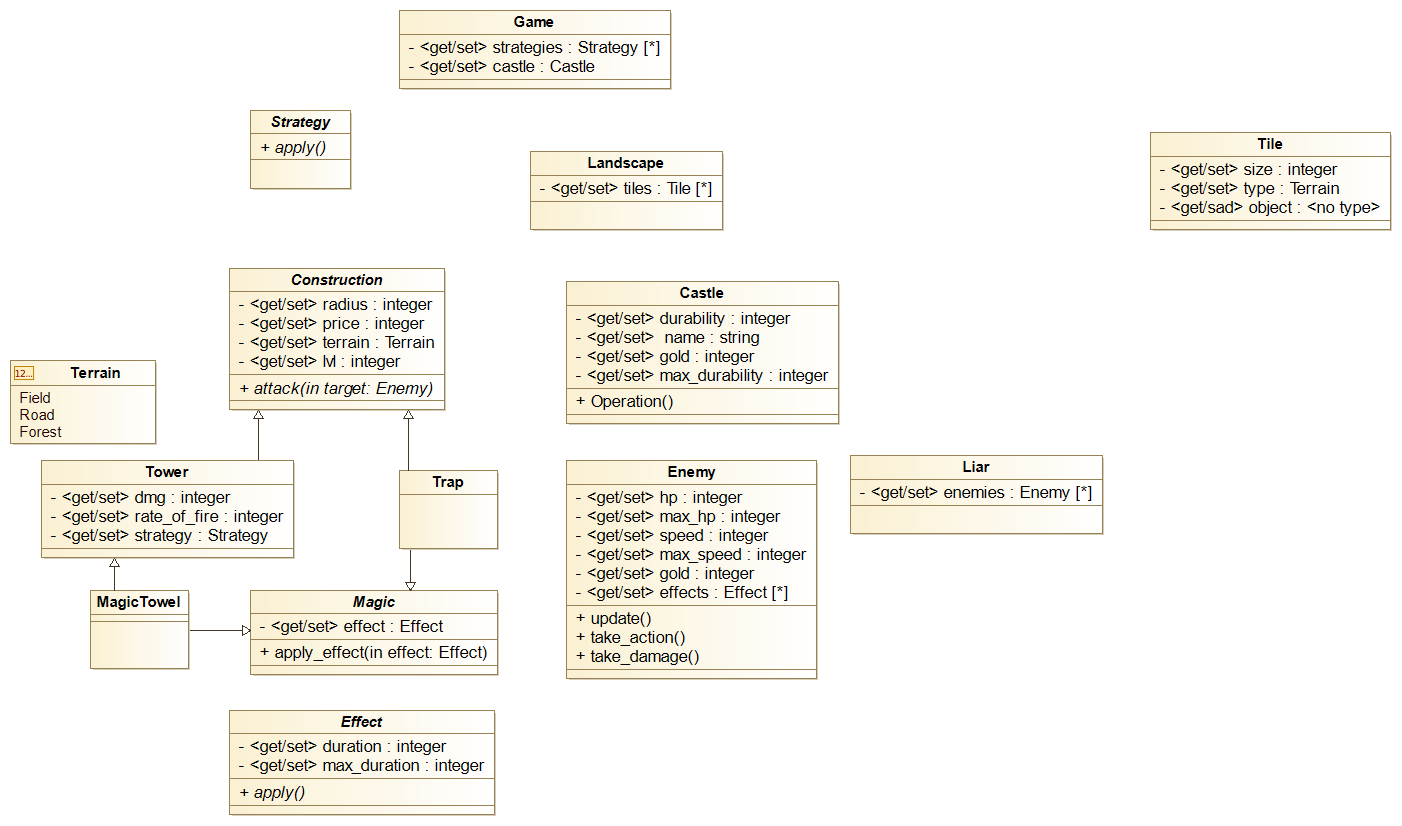
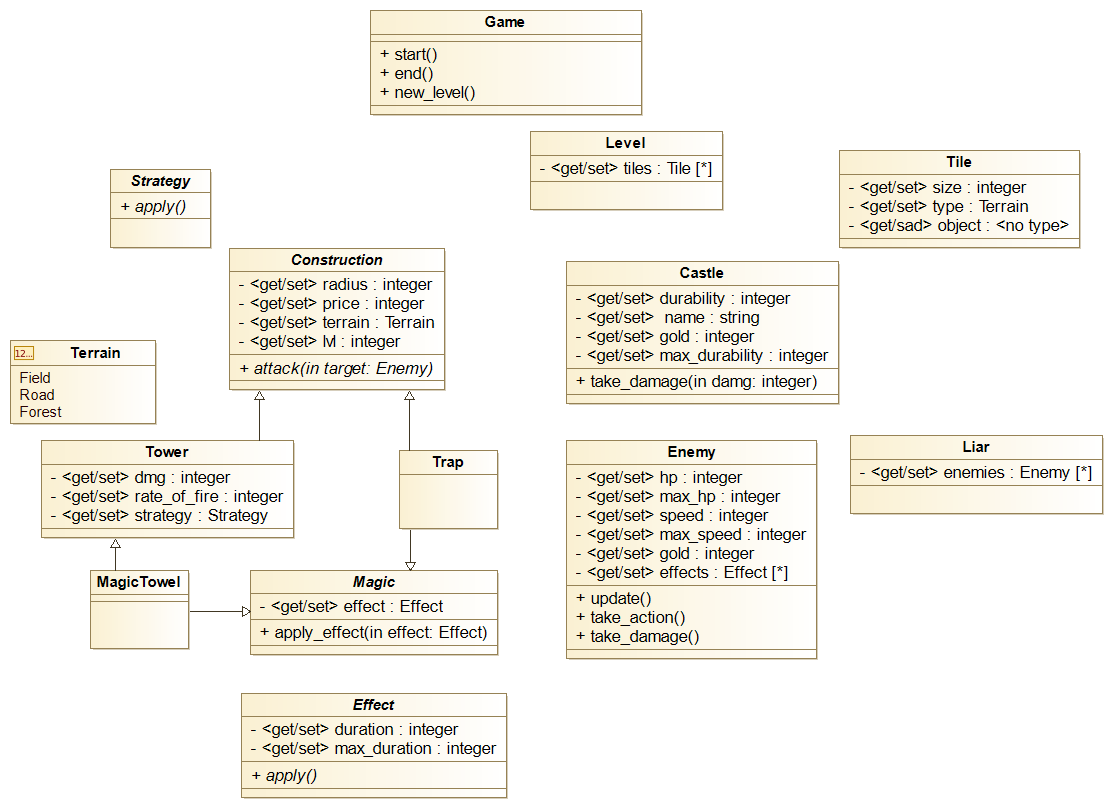
4 final version before performance

diff --git a/4/Enemy.h b/4/Enemy.h
@@ -4,30 +4,30 @@ using std::vector;
 
 namespace TowerDefence
 {
-	enum class EnemyState
+	enum EnemyState
 	{
-		Alive,
-		Dead
+		Dead,
+		Alive
 	};
 	class Enemy
 	{
 	private:
-		int name;//or string?
+	//	int name; or map
 		int HP;
 		int max_HP;
 		int speed;
 		int gold;
-	
+		TERRAIN type;
 		EnemyState state; 
 		vector<Effect*> acting_effects;
 	public:
-		 int get_name() const { return name; }
+		// int get_name() const { return name; }
 		 int get_HP() const { return HP; }
 		 int get_max_HP() const { return max_HP; }
 		 int get_speed() const { return speed; }
 		 int get_gold()const { return gold; }
 
-		 void set_name(int n) { name = n; }
+		// void set_name(int n) { name = n; }
 		 void set_HP(int hp) { HP = hp; }
 		 void set_max_HP(int mh) {  max_HP = mh; }
 		 void set_speed(int s) { speed = s; }
@@ -35,13 +35,14 @@ namespace TowerDefence
 		
 		 void update()
 		 {
-			 for (Effect effect: acting_effects)
+			 for (auto effect: acting_effects)//make constr for
 			 {
-				 effect.invoke(this);
-				 if (effect.get_duration() == 0)
+				 effect->apply(*this);
+				 if (effect->get_duration() == 0)
 					 delete effect;
 			 }
 		 }
-		 void take_damage();
+		 void take_damage(int damage); // 
+		 void apply_effect(Effect* effect);
 	};
 }

diff --git a/4/Effect.h b/4/Effect.h
@@ -1,25 +1,27 @@
 #pragma once
 #include "Enemy.h"
-#include <string>
-using std::string; 
 
 namespace TowerDefence
 {
 	class Effect
 	{
 	private:
-		string effect_type;
 		int duration;
 		int max_duration;
-	public:
+	public: //number of effects by size of cont
+		Effect(int d, int md) 
+		{
+			duration = d;
+			max_duration = md;
+		};
+
 		int get_duration() const { return duration; };
 		int get_max_duration() const { return max_duration;  };
 
 		void set_duration(int d) { duration = d; };
 		void set_max_duration(int md) { max_duration = md; };
 
-		int number_of_effects(Enemy& target);
-		int apply(Enemy& target);
+		virtual void apply(Enemy& target) = 0;
 	};
 	
 }

diff --git a/4/Level.h b/4/Level.h
@@ -1,29 +1,18 @@
 #pragma once
 #include "Enemy.h"
-#include "Liar.h"
+#include "Lair.h"
 #include "castle.h"
 #include <list>
-using std::list;
+using std::vector;
 
 namespace TowerDefence
 {	
-	enum TERRAIN {
-			ROAD, FIELD, FOREST
-	};
-	struct Tile {
-		TERRAIN type;
-		int size;
-
-		Tile(TERRAIN b_type, int size);
-		};
 	class Level
 	{
 	private:
 		int moves;
 		int width, height;
-		Castle* castle;
-		Liar* liar;
-		std::vector<Enemy*>  m_enemies;
+
 	public:
 		int get_moves() { return moves; };
 		int get_width() { return width; };

diff --git a/4/Construction.h b/4/Construction.h
@@ -1,4 +1,6 @@
 #pragma once
+#include "Enemy.h"
+#include "Effect.h"
 namespace TowerDefence
 {
 	class Construction
@@ -7,6 +9,8 @@ namespace TowerDefence
 		int radius;
 		int price;
 		int lvl;
+		Effect* effect;
+		TERRAIN type;
 	public:
 		int get_radius() { return radius; };
 		int get_price() { return price; };
@@ -16,7 +20,7 @@ namespace TowerDefence
 		void set_price(int p) { price = p; };
 		void set_lvl(int l) { lvl = l; };
 
-		virtual void attack(Enemy target);
+		virtual void attack(Enemy &target) =0;
 	};
 };
 	

diff --git a/4/Tile.h b/4/Tile.h
@@ -1,0 +1,24 @@
+#include "Castle.h"
+namespace TowerDefence
+{
+	enum TERRAIN {
+		ROAD, FIELD, FOREST
+	};
+	class Tile
+	{
+	private:
+		TERRAIN type;
+		int size;
+		int coordinate;//???????????
+	public:
+		int get_size() { return size; };
+		int get_coordinate() { return coordinate; };
+		TERRAIN get_terrain() { return type; };
+
+		void set_terrain(TERRAIN t) {type = t;};
+		void set_coordinate(int c) { coordinate = c; };
+		void set_size(int s) { size = s; };
+		
+		Tile(TERRAIN type, int size);
+	};
+}

diff --git a/4/Tower.h b/4/Tower.h
@@ -1,8 +1,18 @@
 #pragma once
+#include "Construction.h"
+#include "Strategy.h"
 namespace TowerDefence
 {
 	class Tower : public Construction
 	{
-	
+	private:
+		int damage;
+		int rate_of_fire;
+		Strategy* strategy;
+	public: 
+		void attack(Enemy& target) override
+		{
+			target.take_damage(damage);
+		}
 	};
 }

diff --git a/4/MagicTower.h b/4/MagicTower.h
@@ -1,5 +1,16 @@
 #pragma once
+#include "Tower.h"
+#include "Magic.h"
 namespace TowerDefence
 {
-
+	class MagicTower : public Tower, public Magic
+	{
+	public:
+	public:
+		void attack(Enemy& target) override
+		{
+			target.take_damage(damage);
+			target.apply_effect(effect);
+		}
+	};
 }

diff --git a/4/Trap.h b/4/Trap.h
@@ -1,5 +1,15 @@
 #pragma once
+#include "Construction.h"
+#include "Magic.h"
 namespace TowerDefence
 {
-
+	class MagicTrap : public Construction, public Magic
+	{
+	public:
+	public:
+		void attack(Enemy& target) override
+		{
+			target.apply_effect(effect);
+		}
+	};
 }

diff --git a/4/Magic.h b/4/Magic.h
@@ -1,5 +1,13 @@
 #pragma once
+#include "Effect.h"
 namespace TowerDefence
 {
-
+	class Magic
+	{
+	private:
+		Effect* effect;
+	public:
+		void set_effect(Effect* e) { effect = e; };
+		virtual void apply_effect(Effect& ef) = 0;
+	};
 }

diff --git a/4/castle.h b/4/castle.h
@@ -24,6 +24,6 @@ namespace TowerDefence
 		void set_max_HP(int md) { max_durability = md; }
 		void set_gold(int g) { gold = g; }
 
-		int take_damage();
+		int take_damage(int damage);
 	};
 }

diff --git a/4/Strategy.h b/4/Strategy.h
@@ -2,7 +2,9 @@
 namespace TowerDefence
 {
 	class Strategy {
+	private: 
+		int damage;
 	public:
-		
+		virtual void apply();
 	};
 }
